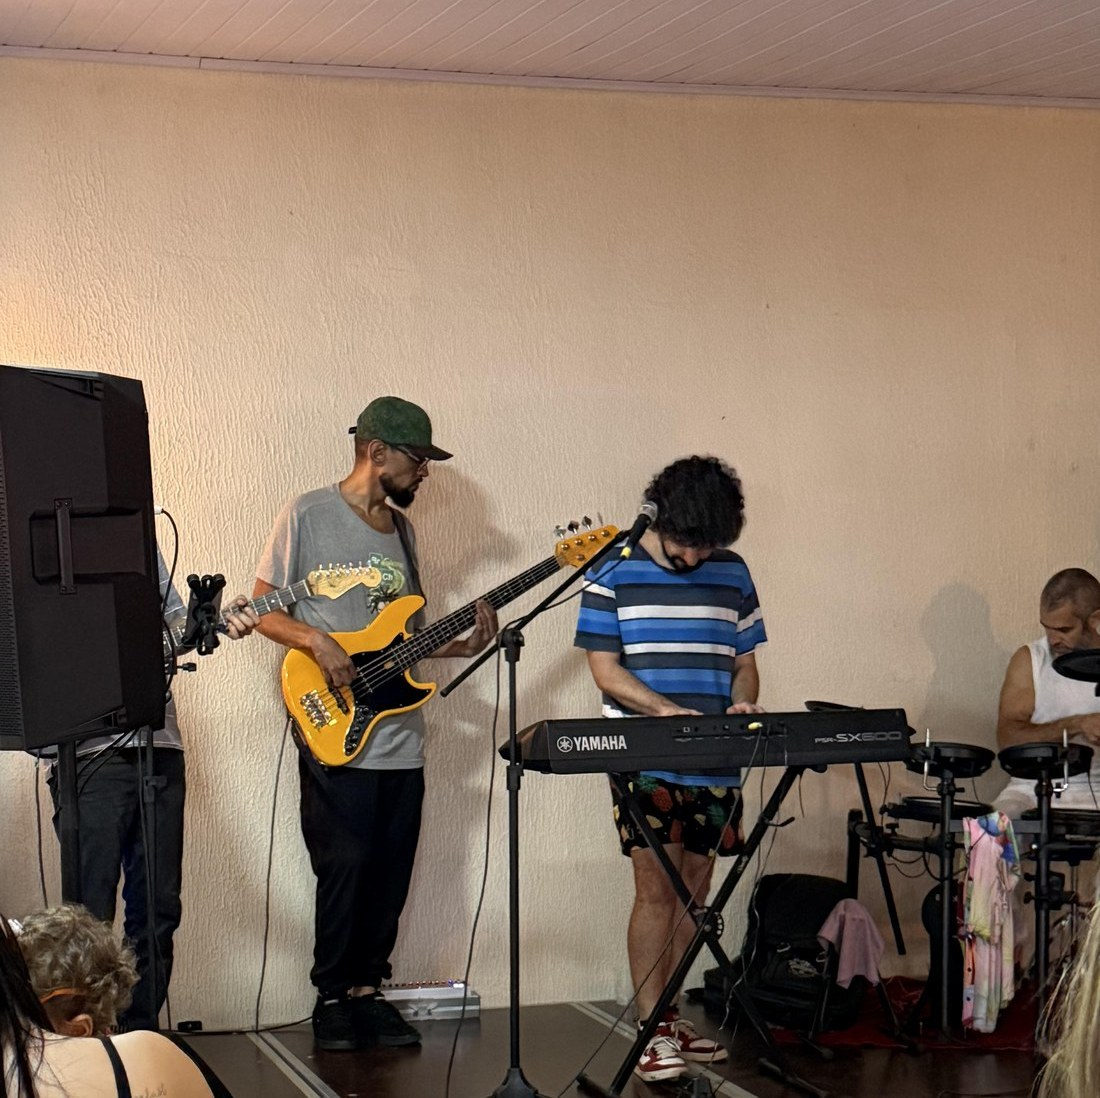
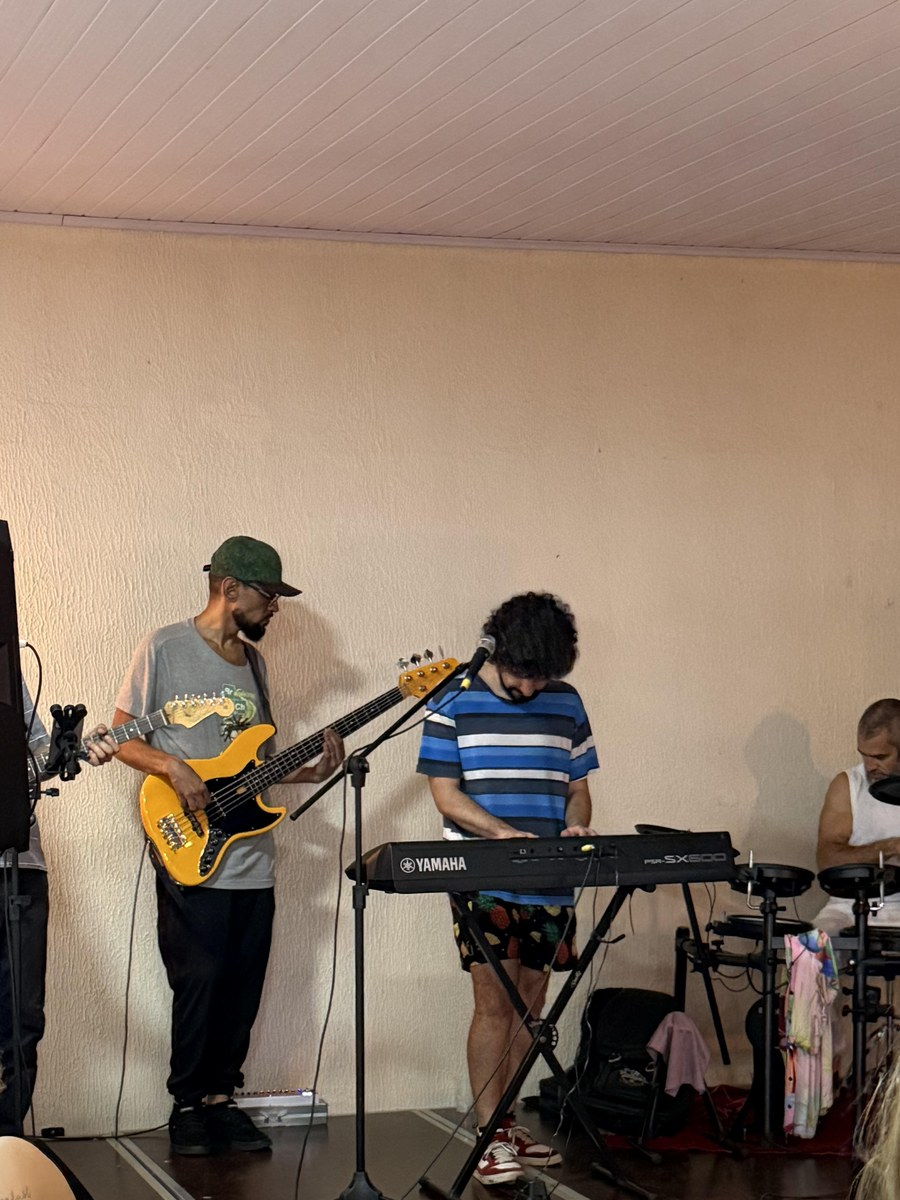
Marsalla Stage: galeria com fotos do mesmo tamanho (3:4) e foto da banda reenquadrada
Claude-Session: https://claude.ai/code/session_01Q54oYcpg15QY7JQBv7bwCd

diff --git a/MARSALLASTAGE/index.html b/MARSALLASTAGE/index.html
@@ -181,8 +181,8 @@ section:nth-of-type(even)::after{animation-delay:-1.6s}
 /* galeria de fotos */
 .fgal{display:flex;align-items:center;gap:14px;overflow-x:auto;scroll-snap-type:x mandatory;-webkit-overflow-scrolling:touch;margin:46px -20px 0;padding:14px 20px 22px;scroll-padding:0 20px;scrollbar-width:thin;scrollbar-color:#ff2a3d transparent}
 .fgal::-webkit-scrollbar{height:4px}.fgal::-webkit-scrollbar-thumb{background:#ff2a3d;border-radius:2px}
-.fgal figure{position:relative;flex:0 0 auto;overflow:hidden;border:2px solid #ff2a3d;box-shadow:0 0 10px rgba(255,42,61,.55),0 0 22px rgba(255,42,61,.25);margin:0;scroll-snap-align:center;cursor:zoom-in;background:#000}
-.fgal img{height:auto;width:auto;max-height:min(64vh,560px);max-width:86vw;display:block;transition:transform .6s}
+.fgal figure{position:relative;flex:0 0 auto;width:min(78vw,380px);aspect-ratio:3/4;overflow:hidden;border:2px solid #ff2a3d;box-shadow:0 0 10px rgba(255,42,61,.55),0 0 22px rgba(255,42,61,.25);margin:0;scroll-snap-align:center;cursor:zoom-in;background:#000}
+.fgal img{width:100%;height:100%;object-fit:cover;object-position:center 30%;display:block;transition:transform .6s}
 .fgal:after{content:"";flex:0 0 1px}
 @media(min-width:900px){.fgal{justify-content:flex-start}}
 .fgal figure:hover img{transform:scale(1.03)}
